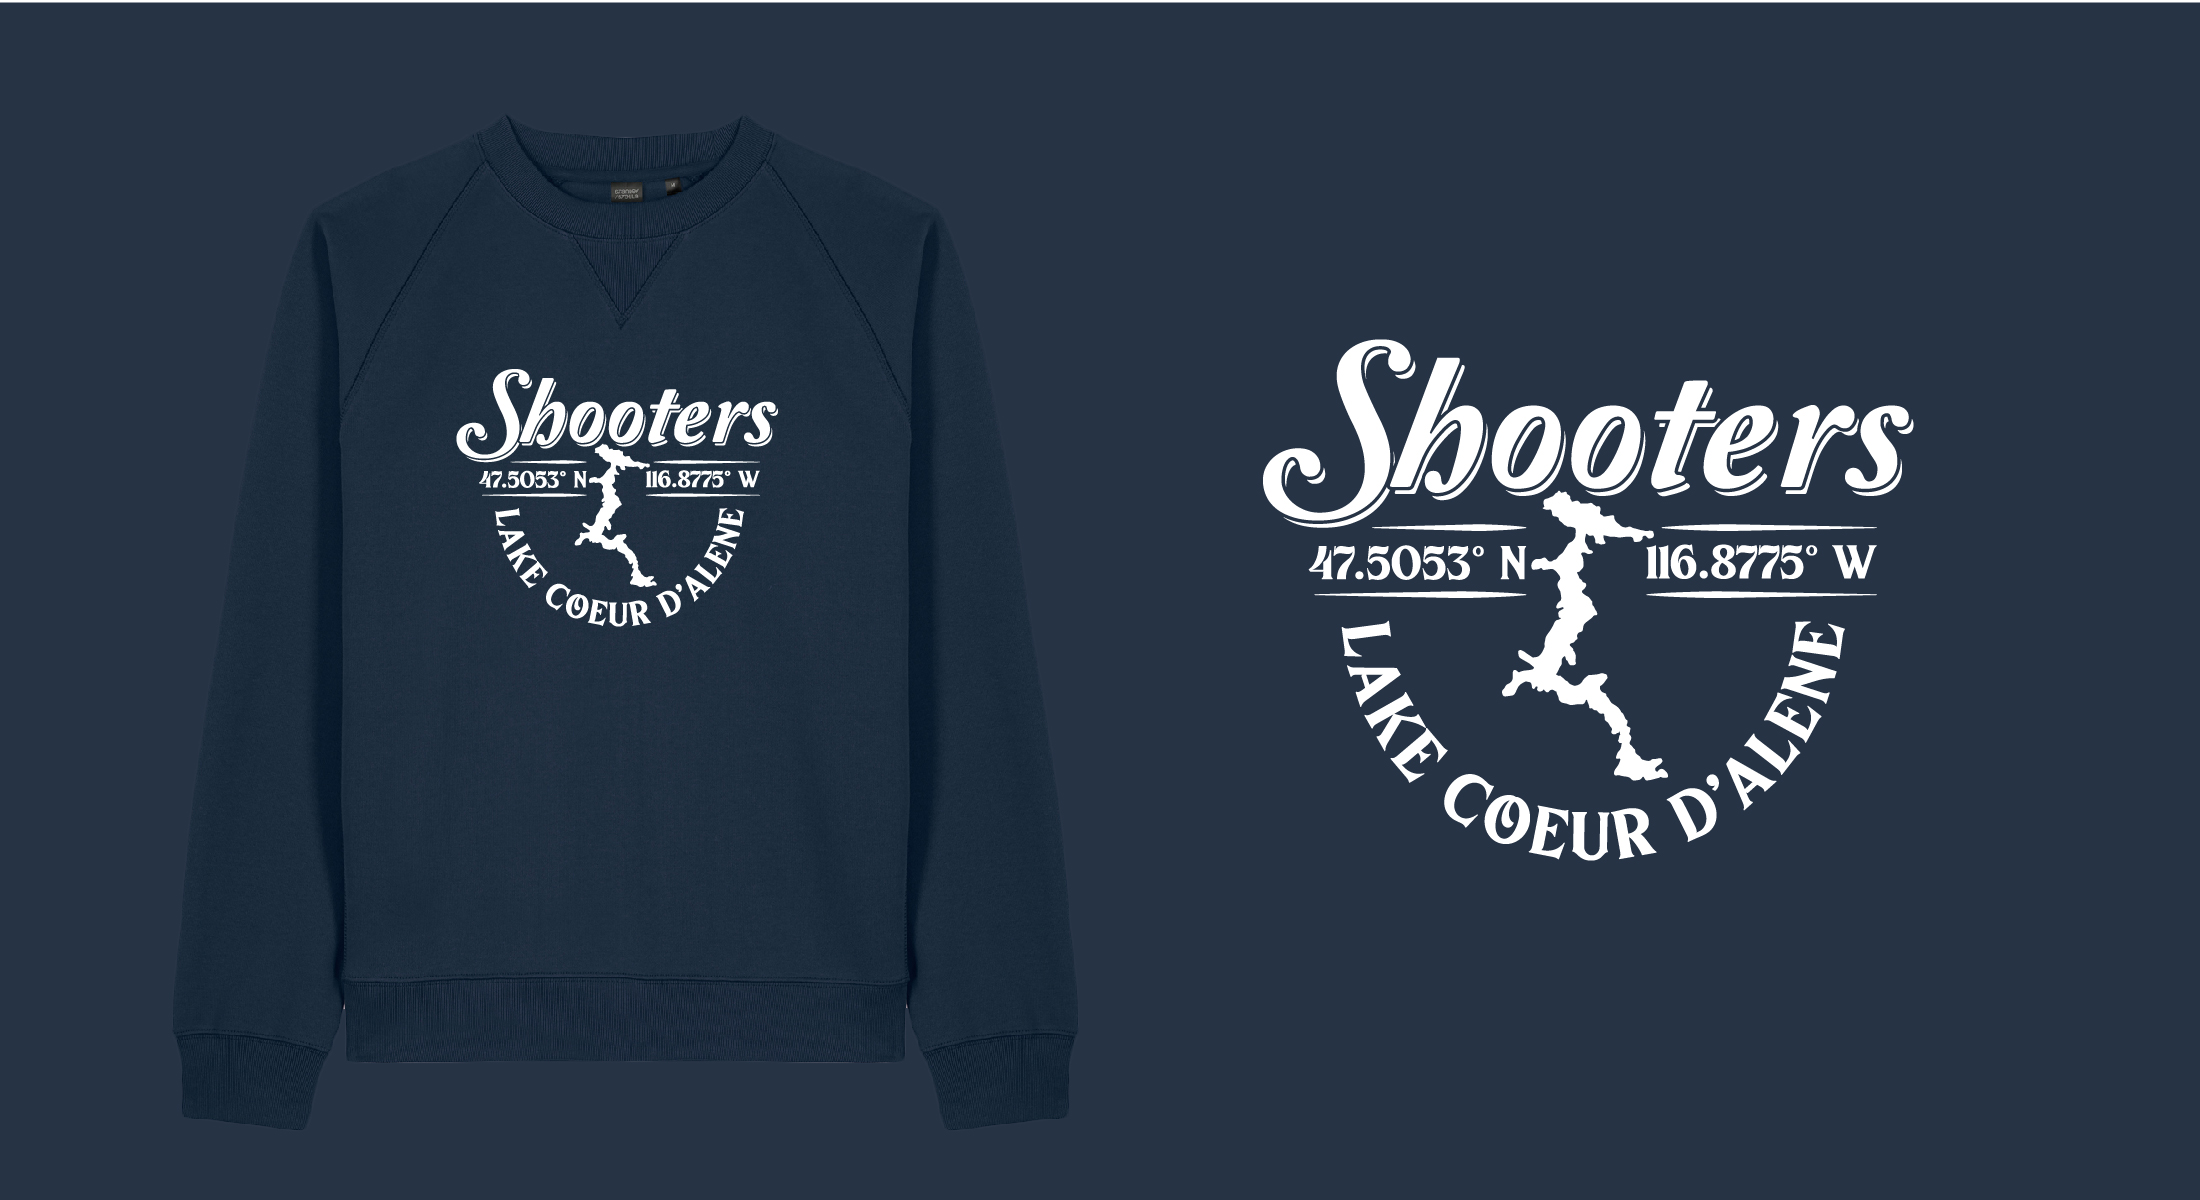
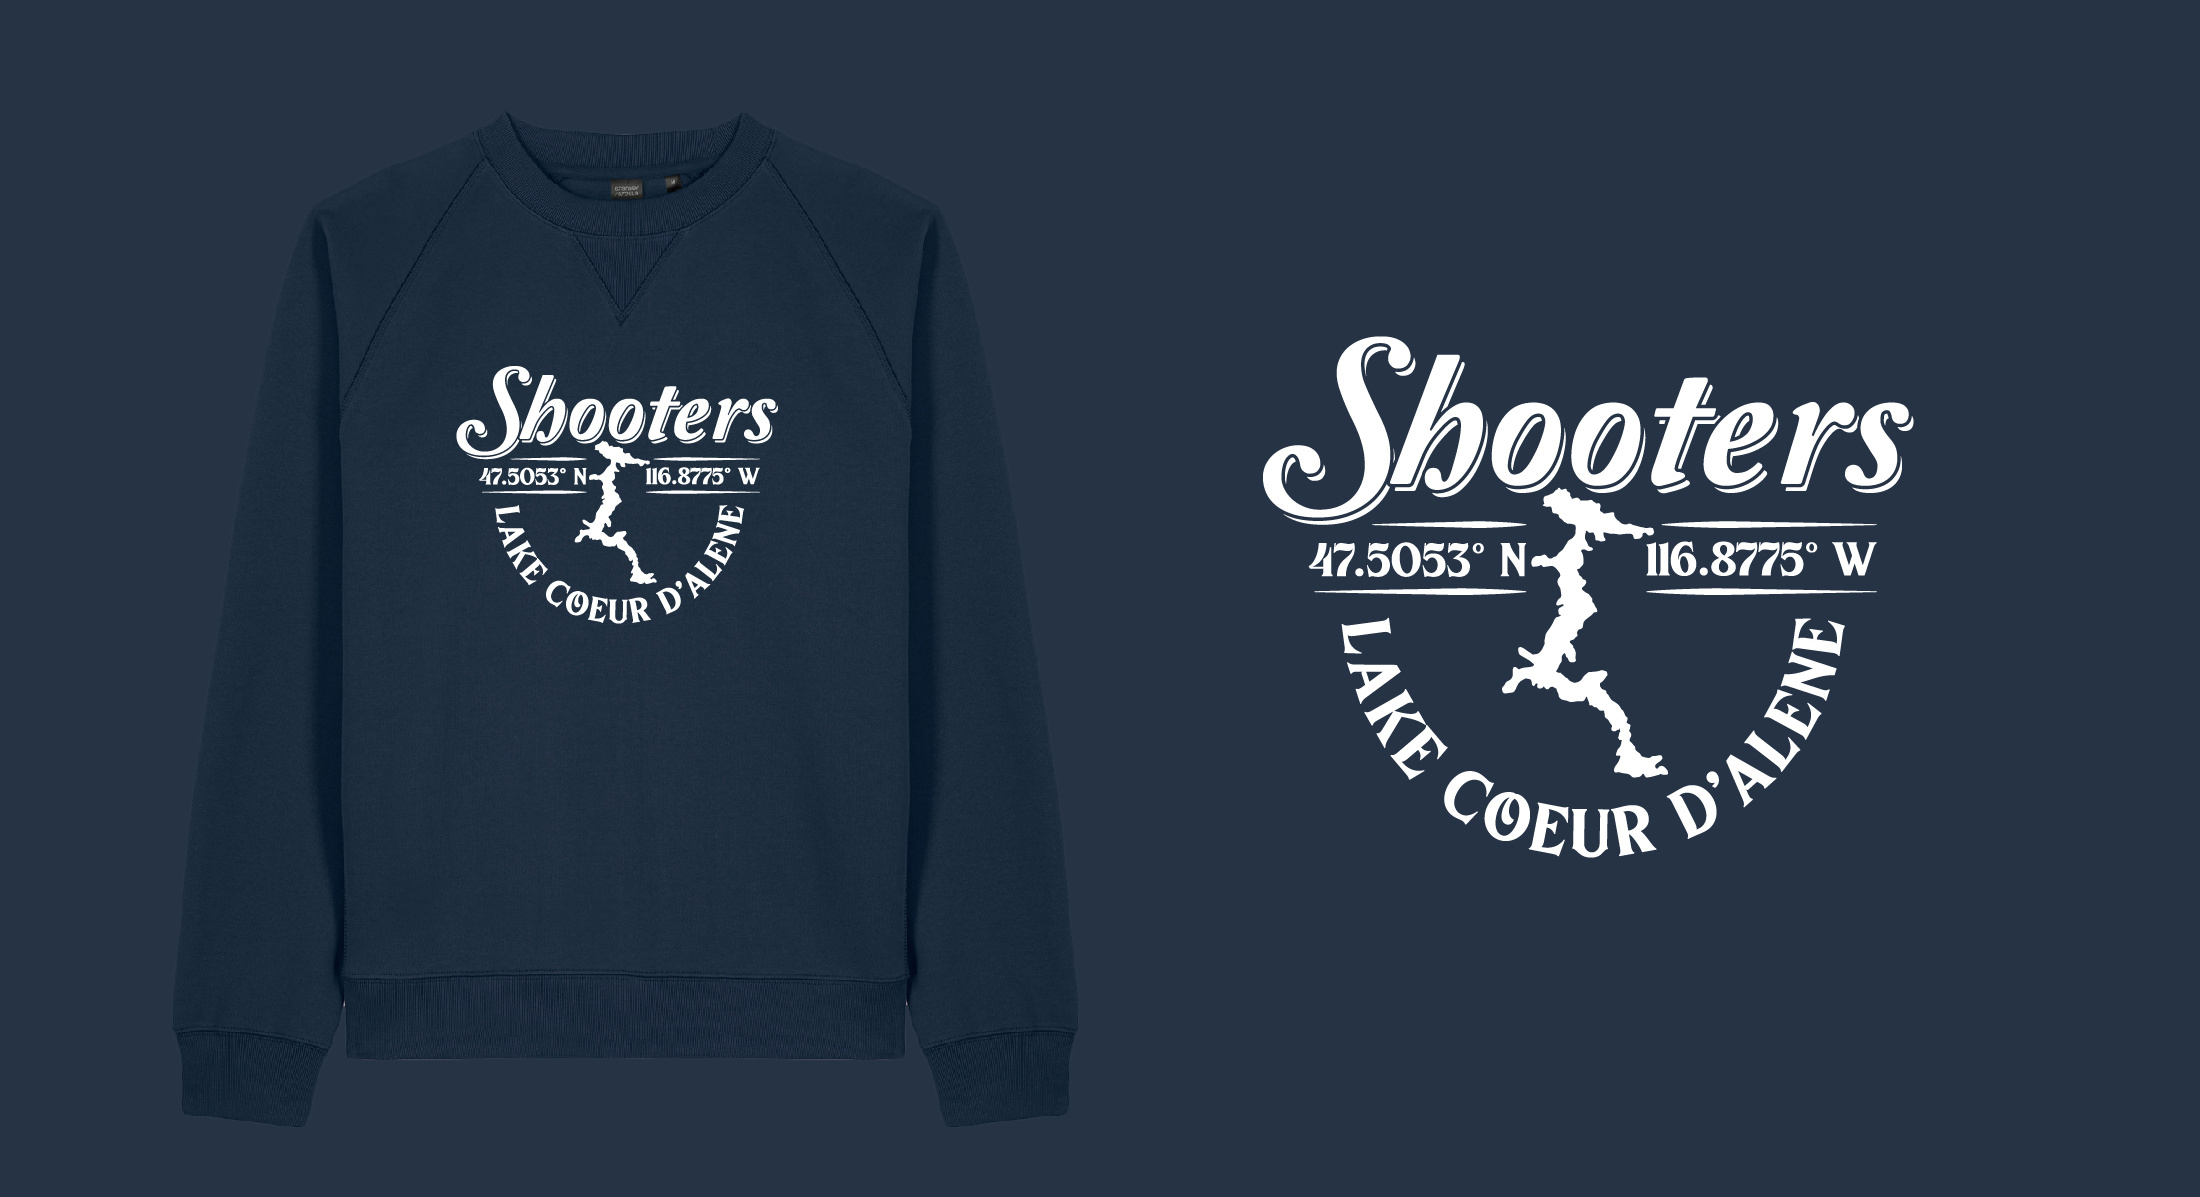
Shooters: wide trailer image, trim white line from navy graphic
Trailer is now a 2200x1200 wide crop like the other wide images, which
removes the blank placeholder square. Top 3 rows (white line) cropped off
the navy sweatshirt graphic.

Claude-Session: https://claude.ai/code/session_01VVaNFq4qnSGXTeZ4EcCoPT

diff --git a/shooters.html b/shooters.html
@@ -42,9 +42,8 @@
         <img class="is-wide" src="assets/images/Shooters-apparel-design-coeur-d-alene-idaho-01.jpg" width="2200" height="1200" loading="lazy" decoding="async" alt="Shooters Sunrise happy hour tee next to its badge artwork">
         <img src="assets/images/Shooters-apparel-design-coeur-d-alene-idaho-02.jpg" width="1200" height="1200" loading="lazy" decoding="async" alt="Close up of the Shooters Sunrise print on a charcoal tee">
         <img src="assets/images/Shooters-apparel-design-coeur-d-alene-idaho-03.jpg" width="1200" height="1200" loading="lazy" decoding="async" alt="Shooters crewneck sweatshirt in heather gray">
-        <img class="is-wide" src="assets/images/Shooters-apparel-design-coeur-d-alene-idaho-06.jpg" width="2200" height="1200" loading="lazy" decoding="async" alt="Shooters navy sweatshirt next to its white artwork">
-        <img src="assets/images/Shooters-apparel-design-coeur-d-alene-idaho-05.jpg" width="1200" height="1200" loading="lazy" decoding="async" alt="Vintage travel trailer illustration">
-        <div class="work__blank" aria-hidden="true"></div>
+        <img class="is-wide" src="assets/images/Shooters-apparel-design-coeur-d-alene-idaho-06.jpg" width="2200" height="1197" loading="lazy" decoding="async" alt="Shooters navy sweatshirt next to its white artwork">
+        <img class="is-wide" src="assets/images/Shooters-apparel-design-coeur-d-alene-idaho-05.jpg" width="2200" height="1200" loading="lazy" decoding="async" alt="Vintage travel trailer illustration">
         <img class="is-wide" src="assets/images/Shooters-apparel-design-coeur-d-alene-idaho-07.jpg" width="2200" height="1200" loading="lazy" decoding="async" alt="Joey tee with trailer badge artwork">
       </div>
       <nav class="project-nav" aria-label="Projects">
